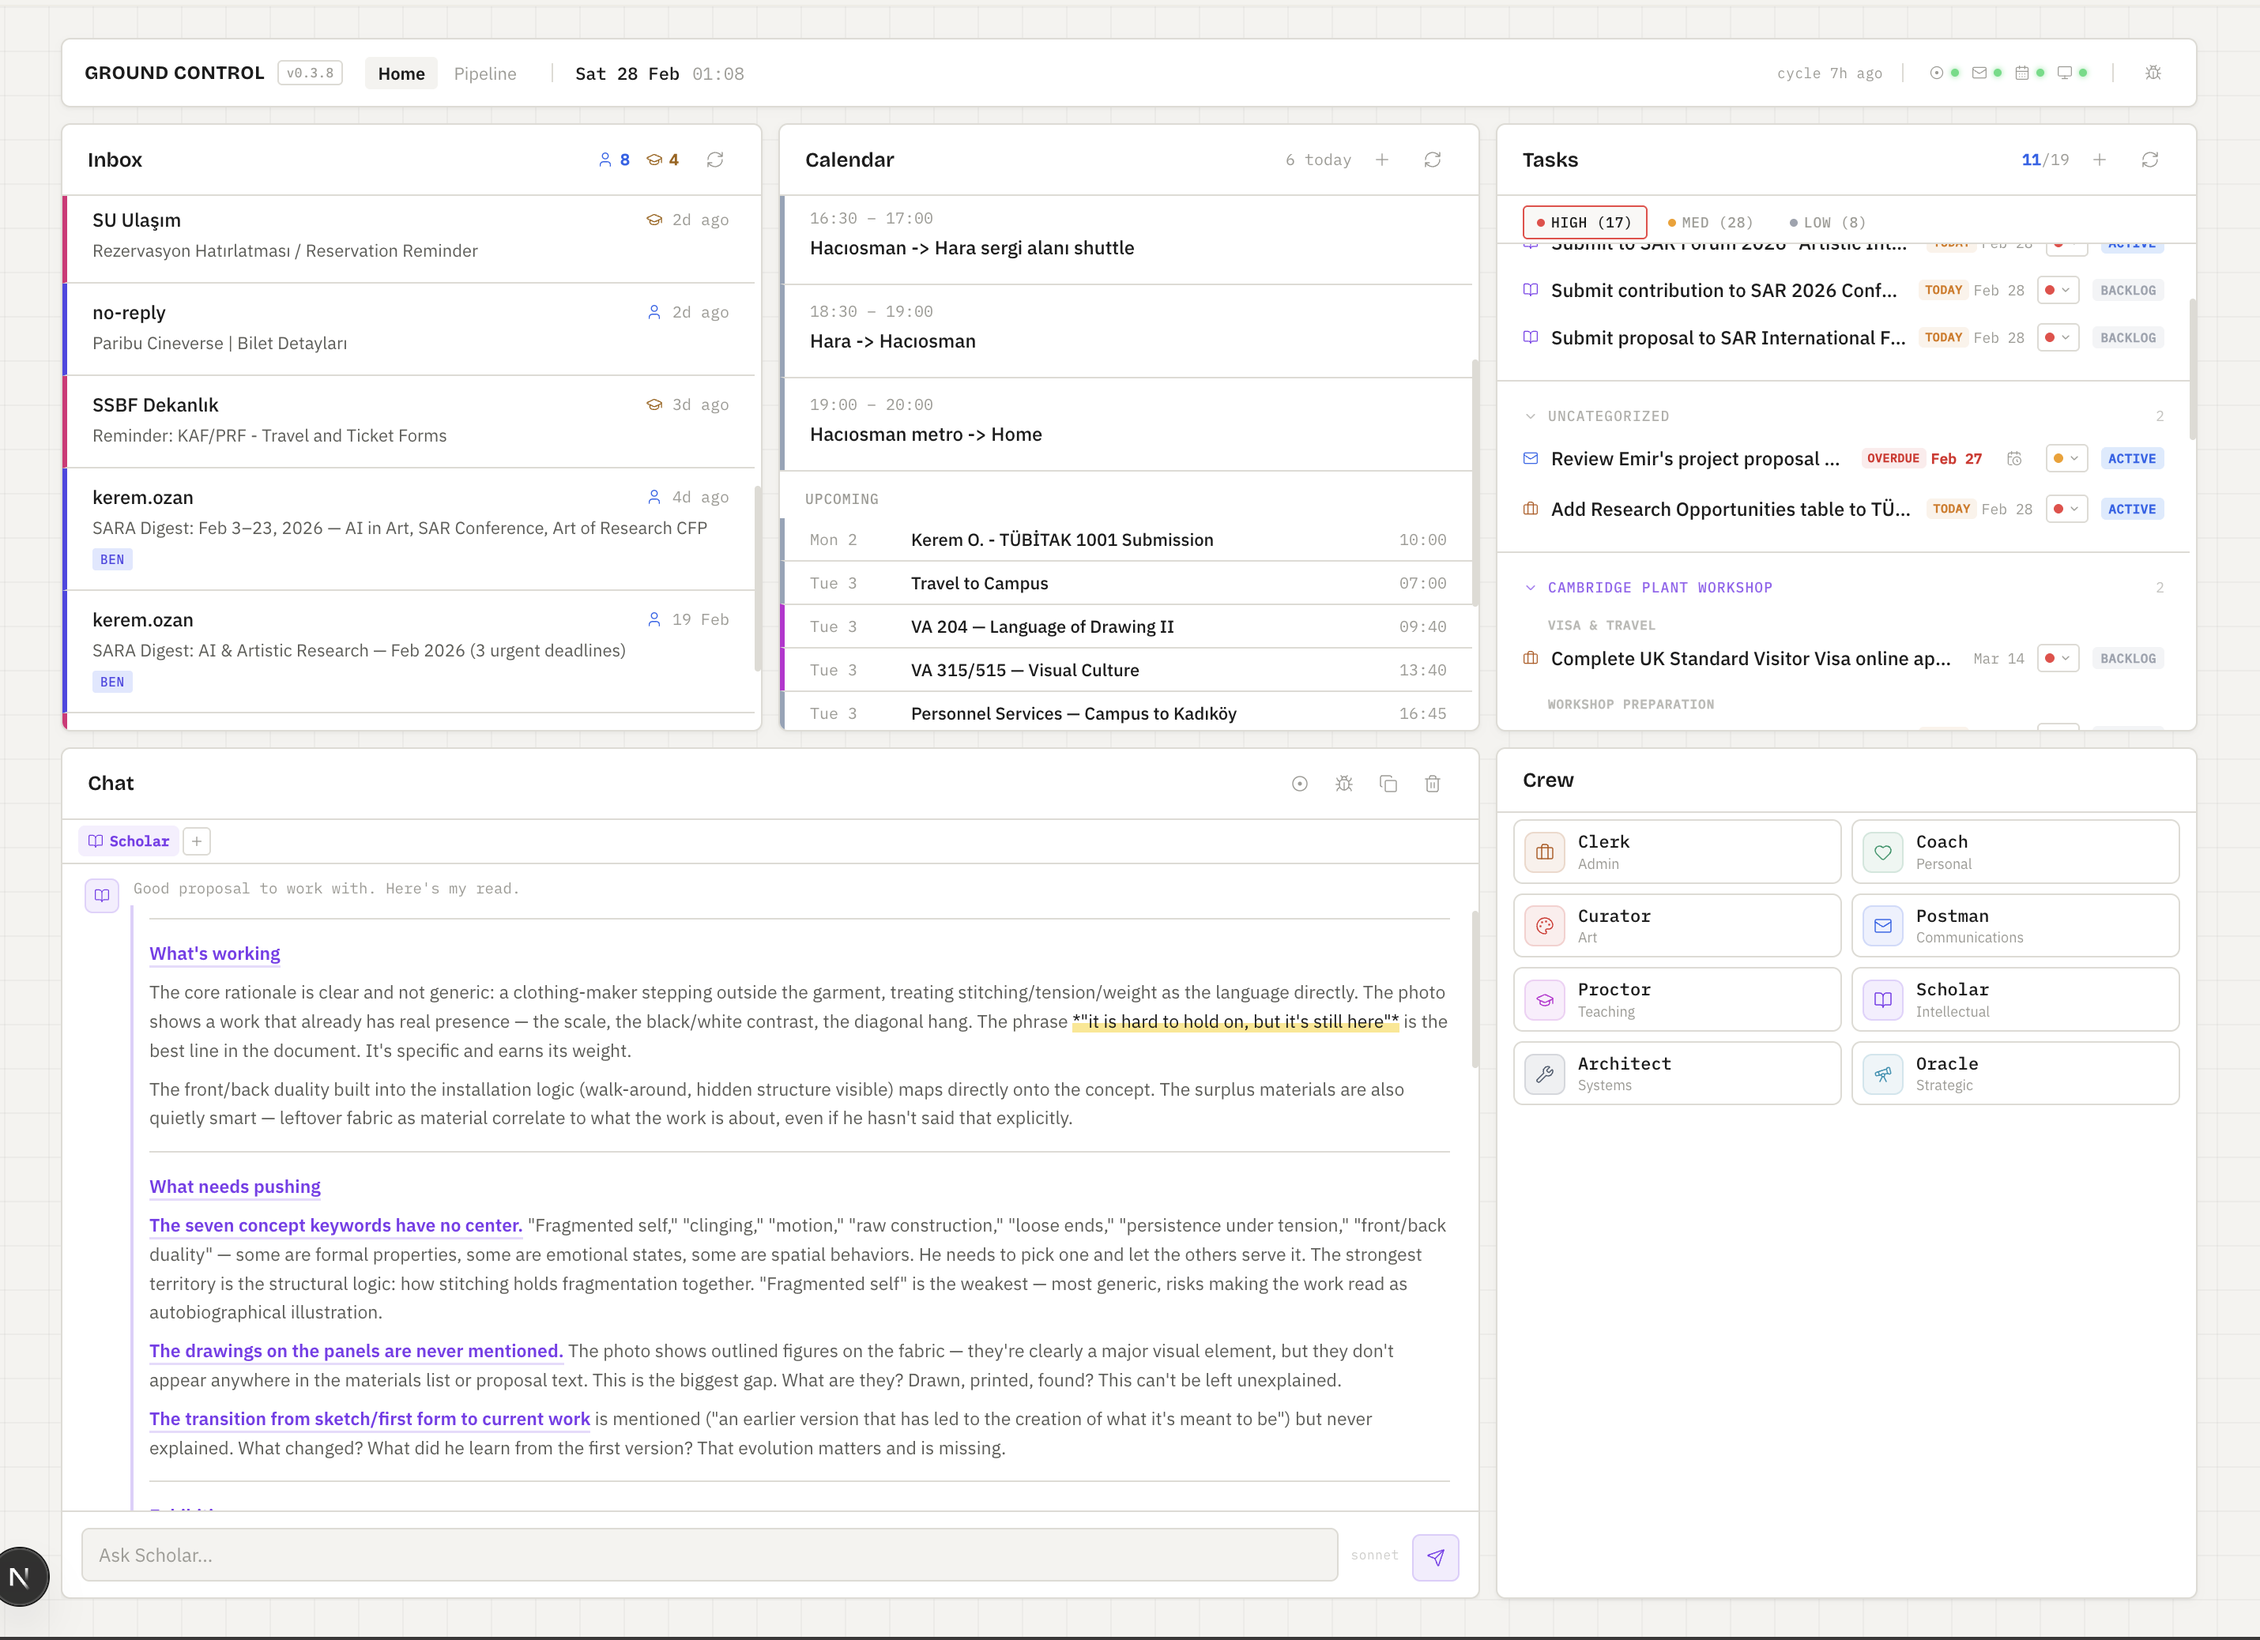
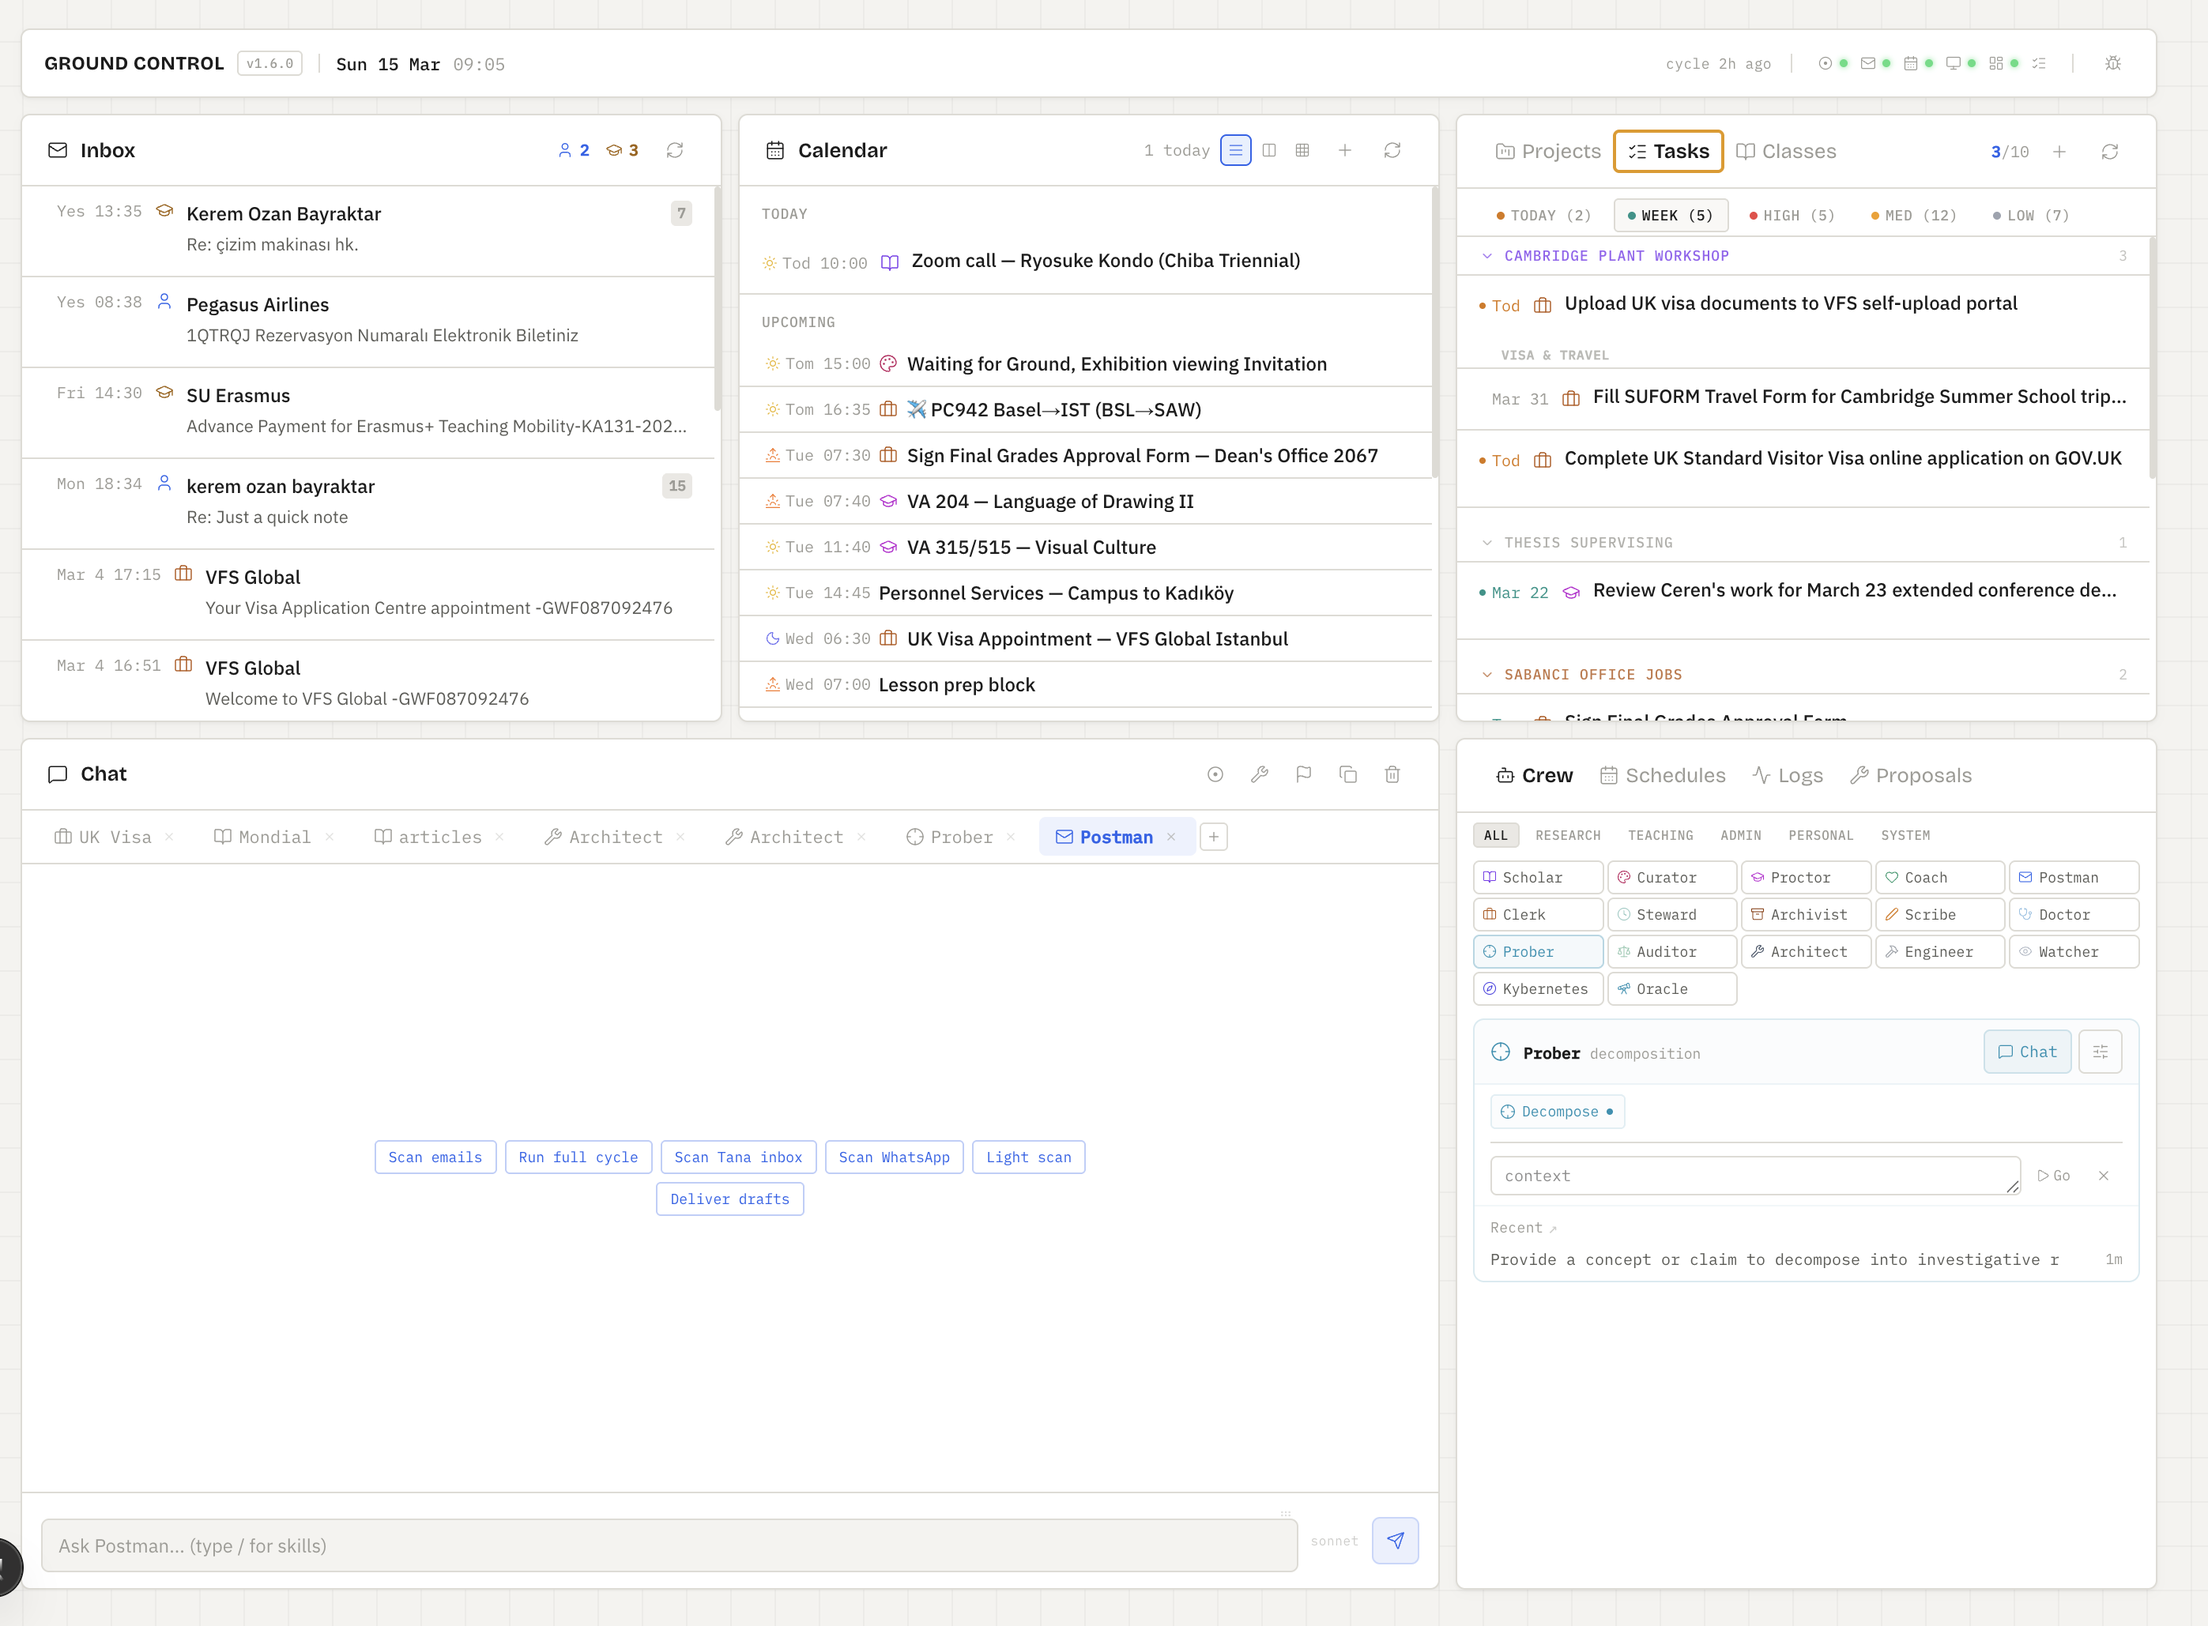
chore: prepare v1.6.1 — filter labels, updated screenshots
Replace dashboard and pipeline screenshots with current UI showing
filter pills and LCoT decomposition in action. Update public changelog.
Bump to v1.6.1.

Changed region(s): [[0.0, 0.0311, 1.0, 1.0], [0.2491, 0.4976, 0.5605, 0.5287], [0.6228, 0.9329, 0.6539, 0.964]]

diff --git a/CHANGELOG.md b/CHANGELOG.md
@@ -1,5 +1,17 @@
 # Changelog
 
+## v1.6.1 — 2026-03-15
+
+### Crew
+- [new] Filter labels on crew widget: All, Research, Teaching, Admin, Personal, System
+- [improved] Characters can appear in multiple filters (e.g. Scribe in Research + Teaching)
+- [improved] Crew order by interaction frequency (work characters first)
+- [new] Scholar "Solve" action: run solvers + Auditor on existing routes/questions
+- [new] LCoT pipeline supports step-by-step mode (decompose, solve, synthesize independently)
+
+### Dashboard
+- [improved] Updated screenshots
+
 ## v1.6.0 — 2026-03-14
 
 ### Crew
